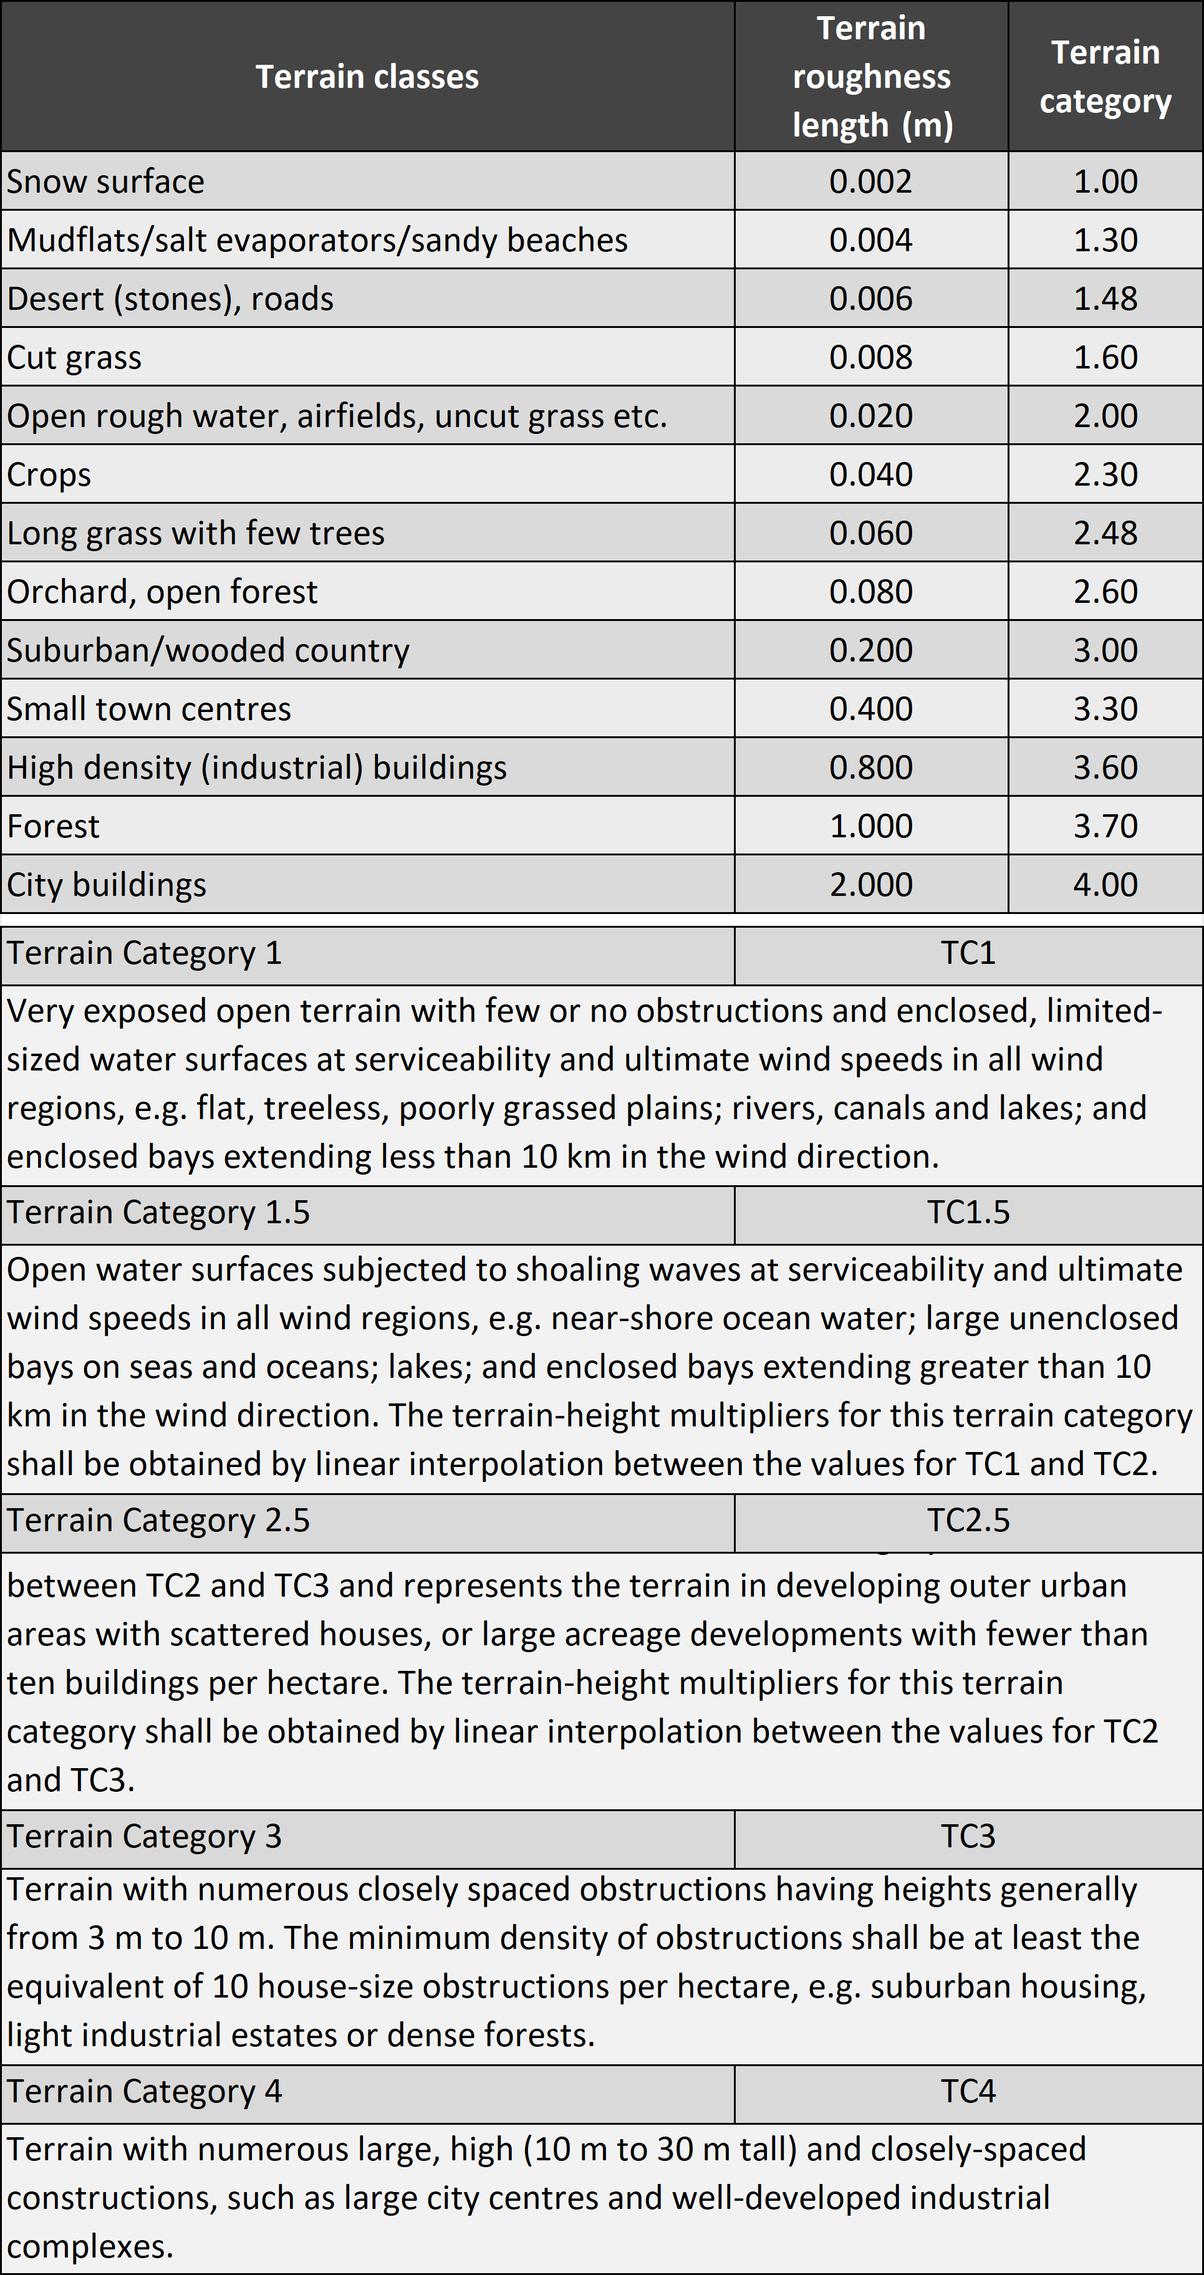
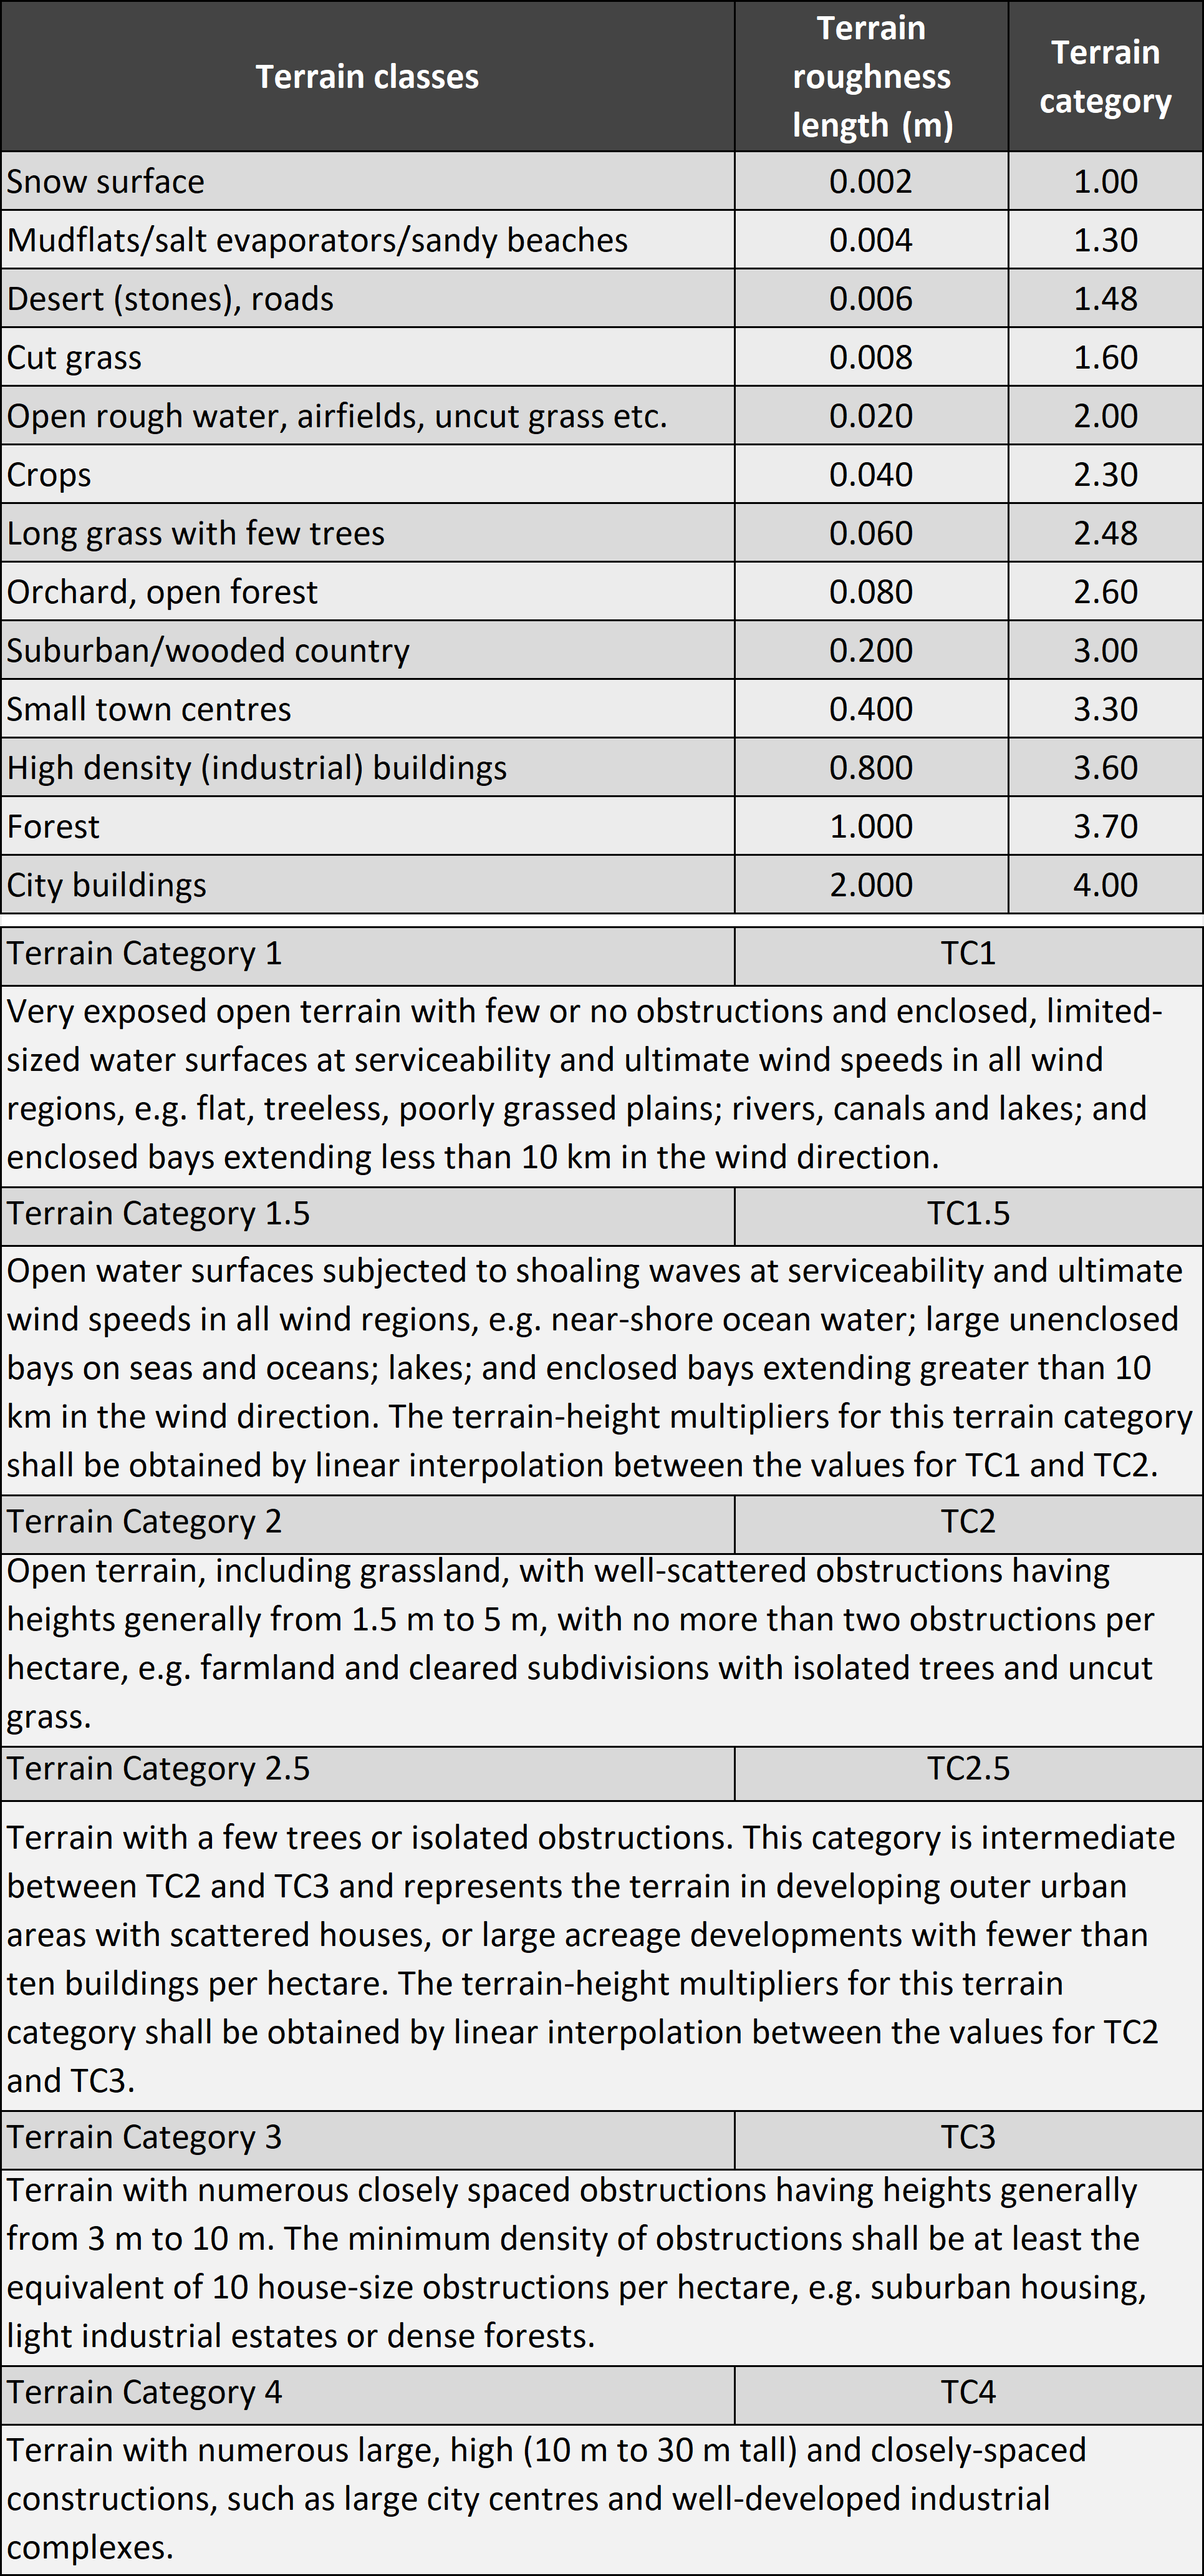
Info

diff --git a/PFD/PurlinDesigner.xaml b/PFD/PurlinDesigner.xaml
@@ -8,7 +8,7 @@
         xmlns:i="http://schemas.microsoft.com/expression/2010/interactivity"
         mc:Ignorable="d"
         WindowStartupLocation="CenterScreen"
-        Title="Purlin Designer" Height="1050" Width="1050">
+        Title="Purlin Designer" Height="1250" Width="1050">
     <Window.Resources>
         <System:Double x:Key="theTextBoxWidth">90</System:Double>
         <System:Double x:Key="theTextBoxWidthLarge">150</System:Double>
@@ -62,7 +62,7 @@
             <TextBlock Grid.Row="0" Grid.Column="0" Text="Length L:" HorizontalAlignment="Left" 
                          VerticalAlignment="Top" />
             <TextBox Grid.Row="0" Grid.Column="1" Name ="TextBox_Length_L" HorizontalAlignment="Left" Width="{StaticResource theTextBoxWidth}"
-                         TextWrapping="Wrap" VerticalAlignment="Top"
+                         TextWrapping="Wrap" VerticalAlignment="Top" Background="AntiqueWhite"
                          Text="{Binding Path=Length_L, StringFormat=F3, UpdateSourceTrigger=LostFocus, Mode=TwoWay, ValidatesOnExceptions=True}">
                 <i:Interaction.Behaviors>
                     <local:TextBoxEnterKeyUpdateBehavior />
@@ -74,7 +74,7 @@
             <TextBlock Grid.Row="1" Grid.Column="0" Text="Tributary Width B:" HorizontalAlignment="Left" 
                          VerticalAlignment="Top" />
             <TextBox Grid.Row="1" Grid.Column="1" Name ="TextBox_TributaryWidth_B" HorizontalAlignment="Left" Width="{StaticResource theTextBoxWidth}"
-                         TextWrapping="Wrap" VerticalAlignment="Top"
+                         TextWrapping="Wrap" VerticalAlignment="Top" Background="AntiqueWhite"
                          Text="{Binding Path=TributaryWidth_B, StringFormat=F3, UpdateSourceTrigger=LostFocus, Mode=TwoWay, ValidatesOnExceptions=True}">
                 <i:Interaction.Behaviors>
                     <local:TextBoxEnterKeyUpdateBehavior />
@@ -94,7 +94,7 @@
             <TextBlock Grid.Row="3" Grid.Column="0" Text="Bracing Block Distance Lb:" HorizontalAlignment="Left" 
                          VerticalAlignment="Top" />
             <TextBox Grid.Row="3" Grid.Column="1" Name ="TextBox_BracingLength_Lb" HorizontalAlignment="Left" Width="{StaticResource theTextBoxWidth}"
-                         TextWrapping="Wrap" VerticalAlignment="Top" IsReadOnly="False" IsEnabled="True"
+                         TextWrapping="Wrap" VerticalAlignment="Top"  Background="AntiqueWhite" IsReadOnly="False" IsEnabled="True"
                          Text="{Binding Path=BracingLength_Lb, StringFormat=F3, UpdateSourceTrigger=PropertyChanged, ValidatesOnExceptions=True}">
                 <i:Interaction.Behaviors>
                     <local:TextBoxEnterKeyUpdateBehavior />
@@ -159,7 +159,7 @@
             <TextBlock Grid.Row="12" Grid.Column="0" Text="Cladding Self Weight gc:" HorizontalAlignment="Left" 
                          VerticalAlignment="Top" />
             <TextBox Grid.Row="12" Grid.Column="1" Name ="TextBox_CladdingSelfWeight_gc" HorizontalAlignment="Left" Width="{StaticResource theTextBoxWidth}"
-                         TextWrapping="Wrap" VerticalAlignment="Top"
+                         TextWrapping="Wrap" VerticalAlignment="Top" Background="AntiqueWhite"
                          Text="{Binding Path=CladdingSelfWeight_gc, StringFormat=F3, UpdateSourceTrigger=LostFocus, ValidatesOnExceptions=True}">
                 <i:Interaction.Behaviors>
                     <local:TextBoxEnterKeyUpdateBehavior />
@@ -171,7 +171,7 @@
             <TextBlock Grid.Row="13" Grid.Column="0" Text="Additional Dead Load g:" HorizontalAlignment="Left" 
                          VerticalAlignment="Top" />
             <TextBox Grid.Row="13" Grid.Column="1" Name ="TextBox_AdditionalDeadLoad" HorizontalAlignment="Left" Width="{StaticResource theTextBoxWidth}"
-                         TextWrapping="Wrap" VerticalAlignment="Top"
+                         TextWrapping="Wrap" VerticalAlignment="Top" Background="AntiqueWhite"
                          Text="{Binding Path=AdditionalDeadLoad_g, StringFormat=F3, UpdateSourceTrigger=LostFocus, ValidatesOnExceptions=True}">
                 <i:Interaction.Behaviors>
                     <local:TextBoxEnterKeyUpdateBehavior />
@@ -183,7 +183,7 @@
             <TextBlock Grid.Row="14" Grid.Column="0" Text="Live Load q:" HorizontalAlignment="Left" 
                          VerticalAlignment="Top" />
             <TextBox Grid.Row="14" Grid.Column="1" Name ="TextBox_LiveLoad_q" HorizontalAlignment="Left" Width="{StaticResource theTextBoxWidth}"
-                         TextWrapping="Wrap" VerticalAlignment="Top"
+                         TextWrapping="Wrap" VerticalAlignment="Top" Background="AntiqueWhite"
                          Text="{Binding Path=LiveLoad_q, StringFormat=F3, UpdateSourceTrigger=LostFocus, ValidatesOnExceptions=True}">
                 <i:Interaction.Behaviors>
                     <local:TextBoxEnterKeyUpdateBehavior />
@@ -195,7 +195,7 @@
             <TextBlock Grid.Row="15" Grid.Column="0" Text="Snow Load s:" HorizontalAlignment="Left" 
                          VerticalAlignment="Top" />
             <TextBox Grid.Row="15" Grid.Column="1" Name ="TextBox_SnowLoad_s" HorizontalAlignment="Left" Width="{StaticResource theTextBoxWidth}"
-                         TextWrapping="Wrap" VerticalAlignment="Top"
+                         TextWrapping="Wrap" VerticalAlignment="Top" Background="AntiqueWhite"
                          Text="{Binding Path=SnowLoad_s, StringFormat=F3, UpdateSourceTrigger=LostFocus, ValidatesOnExceptions=True}">
                 <i:Interaction.Behaviors>
                     <local:TextBoxEnterKeyUpdateBehavior />
@@ -479,7 +479,7 @@
             <TextBlock Grid.Row="17" Grid.Column="3" Text="Deflection Limit Fraction (G + Q) L/" HorizontalAlignment="Left" 
                          VerticalAlignment="Top" />
             <TextBox Grid.Row="17" Grid.Column="4" Name ="TextBox_DeflectionGQLimitFraction" HorizontalAlignment="Left" Width="{StaticResource theTextBoxWidth}"
-                         TextWrapping="Wrap" VerticalAlignment="Top" IsReadOnly="False" IsEnabled="True"
+                         TextWrapping="Wrap" VerticalAlignment="Top"  Background="AntiqueWhite" IsReadOnly="False" IsEnabled="True"
                          Text="{Binding Path=DeflectionGQLimitFraction, StringFormat=F0, UpdateSourceTrigger=PropertyChanged, ValidatesOnExceptions=True}">
                 <i:Interaction.Behaviors>
                     <local:TextBoxEnterKeyUpdateBehavior />
@@ -523,7 +523,7 @@
             <TextBlock Grid.Row="22" Grid.Column="3" Text="Deflection Limit Fraction (S + W) L/" HorizontalAlignment="Left" 
                          VerticalAlignment="Top" />
             <TextBox Grid.Row="22" Grid.Column="4" Name ="TextBox_Deflection_SW_LimitFraction" HorizontalAlignment="Left" Width="{StaticResource theTextBoxWidth}"
-                         TextWrapping="Wrap" VerticalAlignment="Top" IsReadOnly="False" IsEnabled="True"
+                         TextWrapping="Wrap" VerticalAlignment="Top"  Background="AntiqueWhite" IsReadOnly="False" IsEnabled="True"
                          Text="{Binding Path=DeflectionSWLimitFraction, StringFormat=F0, UpdateSourceTrigger=PropertyChanged, ValidatesOnExceptions=True}">
                 <i:Interaction.Behaviors>
                     <local:TextBoxEnterKeyUpdateBehavior />
@@ -567,7 +567,7 @@
             <TextBlock Grid.Row="27" Grid.Column="3" Text="Deflection Limit Fraction L/" HorizontalAlignment="Left" 
                          VerticalAlignment="Top" />
             <TextBox Grid.Row="27" Grid.Column="4" Name ="TextBox_DeflectionTotal_LimitFraction" HorizontalAlignment="Left" Width="{StaticResource theTextBoxWidth}"
-                         TextWrapping="Wrap" VerticalAlignment="Top" IsReadOnly="False" IsEnabled="True"
+                         TextWrapping="Wrap" VerticalAlignment="Top"  Background="AntiqueWhite" IsReadOnly="False" IsEnabled="True"
                          Text="{Binding Path=DeflectionTotalLimitFraction, StringFormat=F0, UpdateSourceTrigger=PropertyChanged, ValidatesOnExceptions=True}">
                 <i:Interaction.Behaviors>
                     <local:TextBoxEnterKeyUpdateBehavior />

diff --git a/PFD/WindPressureCalculator.xaml b/PFD/WindPressureCalculator.xaml
@@ -105,7 +105,12 @@
 
             <TextBlock Grid.Row="6" Grid.Column="0" Text="Terrain Category:" HorizontalAlignment="Left" 
                          VerticalAlignment="Top" />
-            <Button Grid.Row="6" Grid.Column="0" VerticalAlignment="Top" ToolTip="Info" HorizontalAlignment="Right" Name="WindTerrainCategories" Click="WindTerrainCategories_Click" Width="20" Margin="0 0 10 0" Height="20">
+            <Button Grid.Row="6" Grid.Column="0" VerticalAlignment="Top" ToolTip="Info" HorizontalAlignment="Right" Name="WindTerrainCategories" Click="WindTerrainCategories_Click" Width="20" Margin="0 0 35 0" Height="20">
+                <StackPanel>
+                    <Image Source="Resources/info.png"></Image>
+                </StackPanel>
+            </Button>
+            <Button Grid.Row="6" Grid.Column="0" VerticalAlignment="Top" ToolTip="Info" HorizontalAlignment="Right" Name="WindTerrainCategories2" Click="WindTerrainCategories2_Click" Width="20" Margin="0 0 10 0" Height="20">
                 <StackPanel>
                     <Image Source="Resources/info.png"></Image>
                 </StackPanel>

diff --git a/PFD/WindTerrainCategories2.xaml b/PFD/WindTerrainCategories2.xaml
@@ -1,0 +1,14 @@
+<Window x:Class="PFD.WindTerrainCategories2"
+        xmlns="http://schemas.microsoft.com/winfx/2006/xaml/presentation"
+        xmlns:x="http://schemas.microsoft.com/winfx/2006/xaml"
+        xmlns:d="http://schemas.microsoft.com/expression/blend/2008"
+        xmlns:mc="http://schemas.openxmlformats.org/markup-compatibility/2006"
+        xmlns:local="clr-namespace:PFD"
+        mc:Ignorable="d"
+        Title="Wind Terrain Categories" Height="820" Width="350">
+    <Grid>
+        <StackPanel>
+            <Image Source="Resources/windterraincategories2.png" Stretch="UniformToFill"/>
+        </StackPanel>
+    </Grid>
+</Window>

diff --git a/PFD/WindTerrainCategories.xaml b/PFD/WindTerrainCategories.xaml
@@ -5,7 +5,7 @@
         xmlns:mc="http://schemas.openxmlformats.org/markup-compatibility/2006"
         xmlns:local="clr-namespace:PFD"
         mc:Ignorable="d"
-        Title="Wind Terrain Categories" Height="896" Width="465">
+        Title="Wind Terrain Categories" Height="1010" Width="465">
     <Grid>
         <StackPanel>
             <Image Source="Resources/windterraincategories.png" Stretch="UniformToFill"/>

diff --git a/PFD/WindTerrainCategories2.xaml.cs b/PFD/WindTerrainCategories2.xaml.cs
@@ -1,0 +1,27 @@
+using System;
+using System.Collections.Generic;
+using System.Linq;
+using System.Text;
+using System.Threading.Tasks;
+using System.Windows;
+using System.Windows.Controls;
+using System.Windows.Data;
+using System.Windows.Documents;
+using System.Windows.Input;
+using System.Windows.Media;
+using System.Windows.Media.Imaging;
+using System.Windows.Shapes;
+
+namespace PFD
+{
+    /// <summary>
+    /// Interaction logic for WindTerrainCategories.xaml
+    /// </summary>
+    public partial class WindTerrainCategories2 : Window
+    {
+        public WindTerrainCategories2()
+        {
+            InitializeComponent();
+        }
+    }
+}

diff --git a/PFD/WindPressureCalculator.xaml.cs b/PFD/WindPressureCalculator.xaml.cs
@@ -209,6 +209,12 @@ namespace PFD
             win_windterraincategories.Show();
         }
 
+        private void WindTerrainCategories2_Click(object sender, RoutedEventArgs e)
+        {
+            WindTerrainCategories2 win_windterraincategories = new WindTerrainCategories2();
+            win_windterraincategories.Show();
+        }
+
         private void WindSpeedChart_Click(object sender, RoutedEventArgs e)
         {
             WindSpeedChart wind_chart = new WindSpeedChart(windCalcResults);
